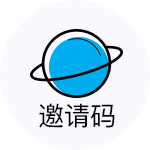
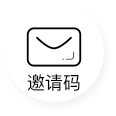
修改图标，完善添加空间的表单布局

Changed region(s): [[0.181, 0.181, 0.8276, 0.8534]]

diff --git a/dream-space/pages/addspace/addspace.js b/dream-space/pages/addspace/addspace.js
@@ -9,12 +9,12 @@ Page({
     avatarImg: '',
     typeIndex: 0,
     typeArray: ['亲子空间', '恋爱空间'],
-    inputPrefixName: '宝宝昵称',
+    inputPlaceholder: '我就叫宝宝',
     inputPrefixBorn: '宝宝生日',
     inputPrefixSex: '宝宝性别',
+    btnPrefix: '开启亲子空间',
     addWay: 1,
-    page: 0,
-    btnDisabled: true
+    page: 0
   },
   onLoad: function (options) {
     let that = this;
@@ -38,6 +38,12 @@ Page({
   formSubmit: function (e) {
     let that = this;
     let para = e.detail.value;
+    if(para.name.trim()==''){
+      wx.showToast({
+        title:'昵称不能为空'
+      })
+      return
+    }
     let url = app.globalData.serverHost + "add.json";
     let nowDate = that.data.date;
     let data = {
@@ -109,6 +115,12 @@ Page({
   inviteSubmit: function (e) {
     let that = this;
     let para = e.detail.value;
+    if(para.secert.trim()==''){
+      wx.showToast({
+        title:'验证码不能为空'
+      })
+      return
+    }
     let url = app.globalData.serverHost + "join.json";
     wx.request({
       url: url,
@@ -147,17 +159,6 @@ Page({
       }
     })
   },
-  checkData: function (e) {
-    if (e.detail.value.trim() != '') {
-      this.setData({
-        btnDisabled: false
-      })
-    } else {
-      this.setData({
-        btnDisabled: true
-      })
-    }
-  },
   choosenImage: function (e) {
     let that = this;
     wx.chooseImage({
@@ -177,16 +178,18 @@ Page({
     if (index == 0) {
       that.setData({
         typeIndex: index,
-        inputPrefixName: '宝宝昵称',
+        inputPlaceholder: '我就叫宝宝',
         inputPrefixBorn: '宝宝生日',
         inputPrefixSex: '宝宝性别',
+        btnPrefix: '开启亲子空间',
       })
     } else if (index == 1) {
       that.setData({
         typeIndex: index,
-        inputPrefixName: '恋人昵称',
-        inputPrefixBorn: '纪念日',
+        inputPlaceholder: '就是耐你',
+        inputPrefixBorn: '恋爱时间',
         inputPrefixSex: '恋人性别',
+        btnPrefix: '开启恋爱空间',
       })
     } else {
       that.setData({
